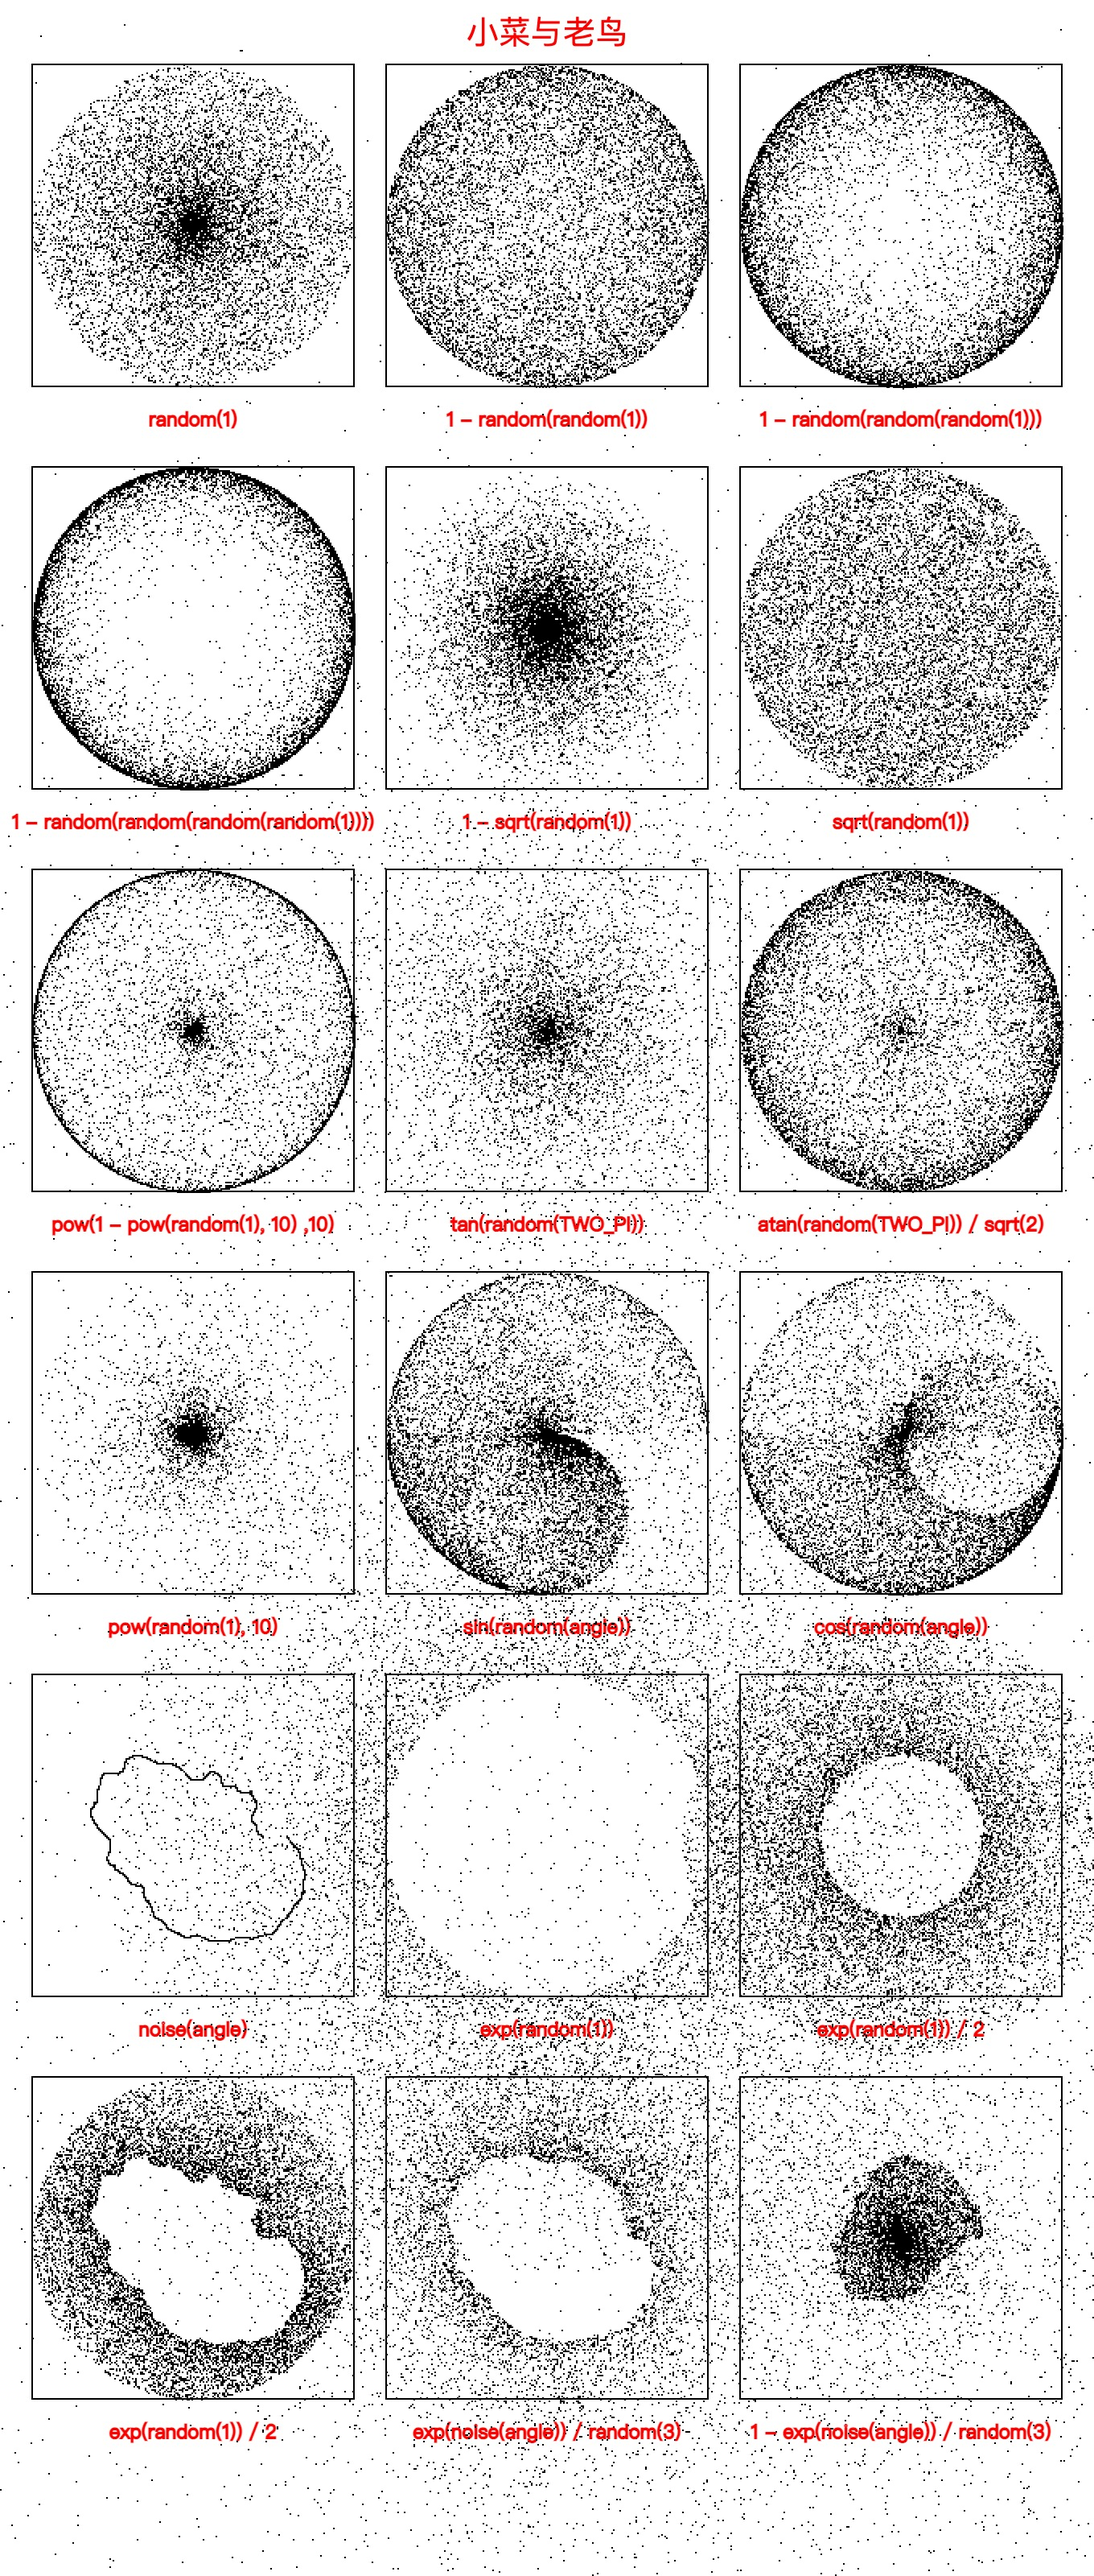
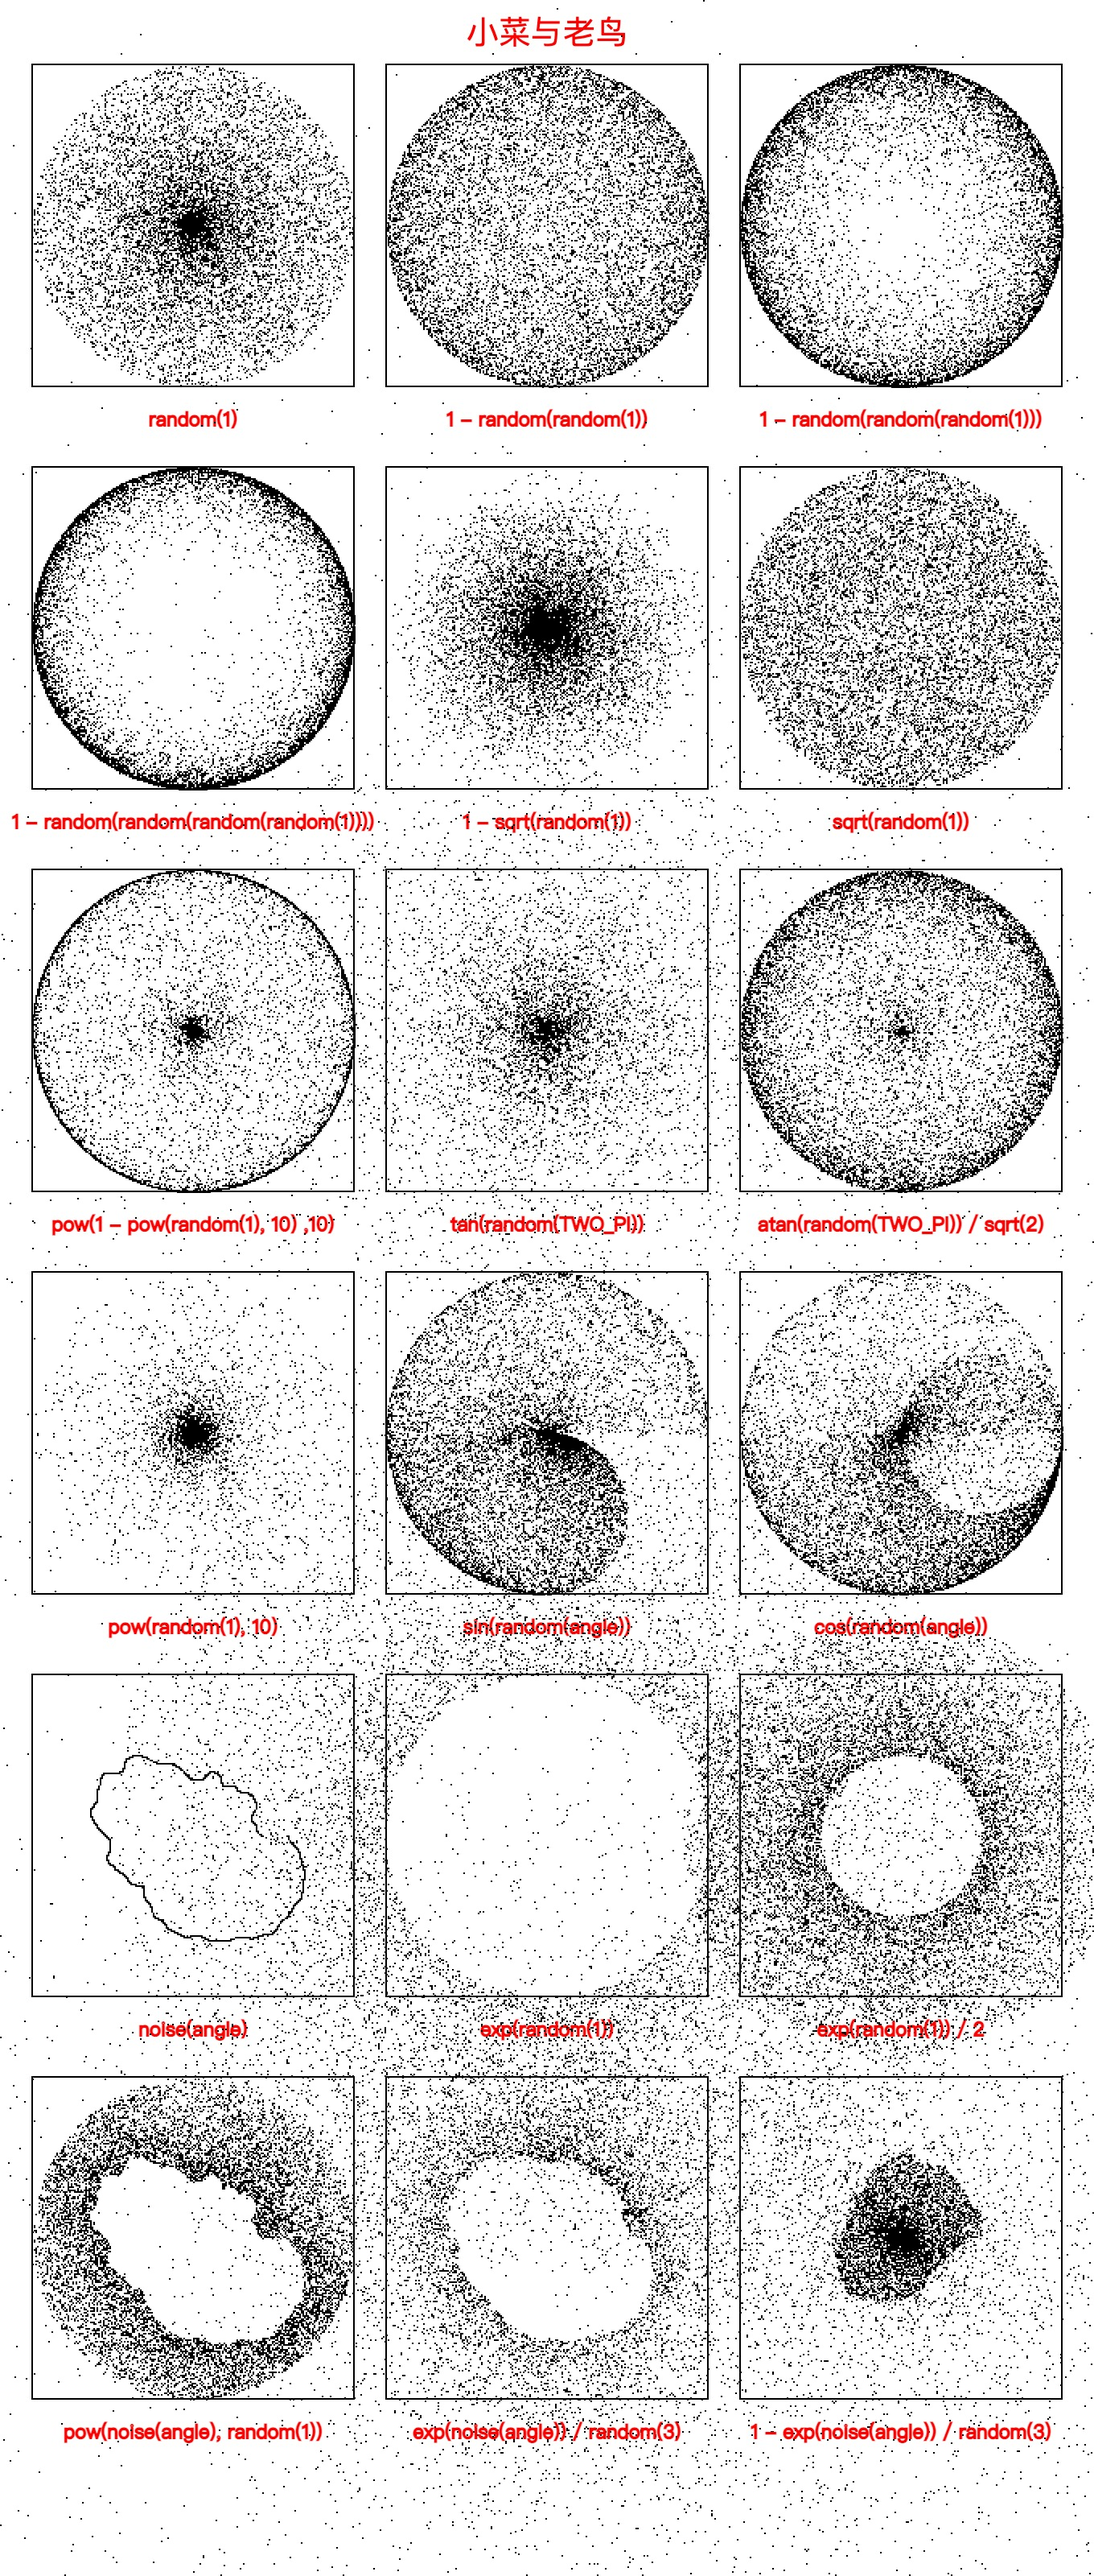
fix: random description error

diff --git a/Day_061/sketch.js b/Day_061/sketch.js
@@ -73,7 +73,7 @@ function setup() {
 
 	drawPoints(x, y + 5 * spacingY, radius, function(angle) {
 		return pow(noise(angle), random(1))
-	}, "exp(random(1)) / 2");
+	}, "pow(noise(angle), random(1))");
 
 	drawPoints(x + spacingX, y + 5 * spacingY, radius, function(angle) {
 		return exp(noise(angle)) / random(3);
